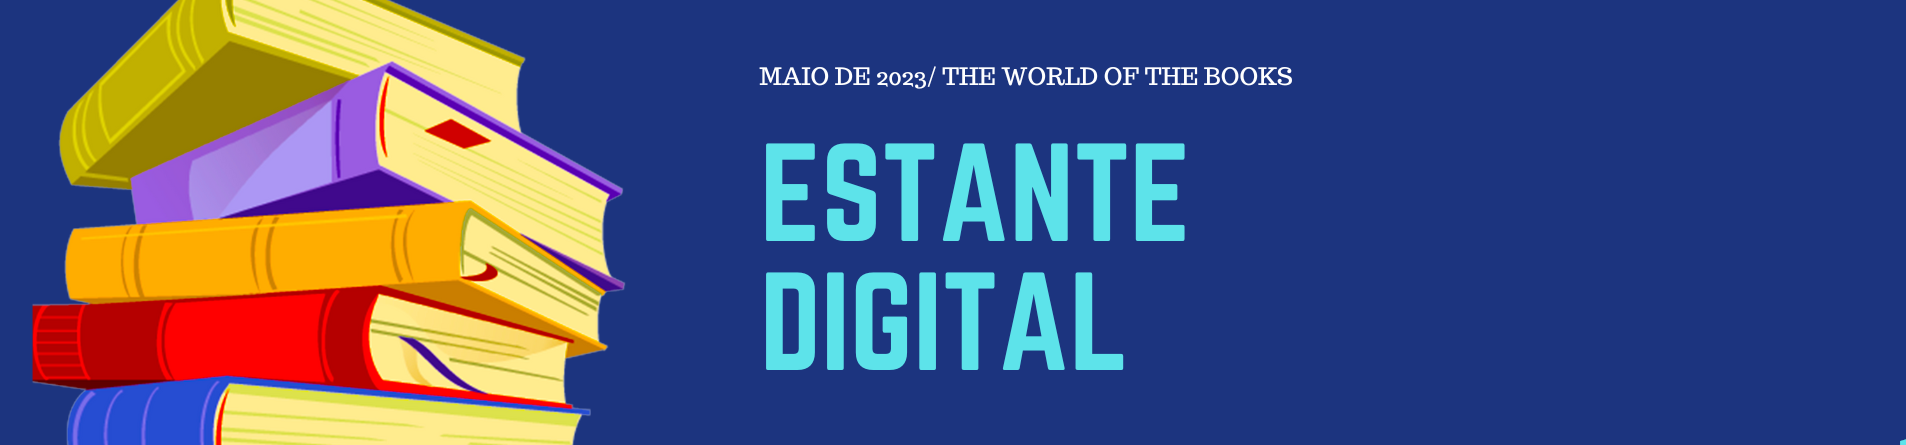
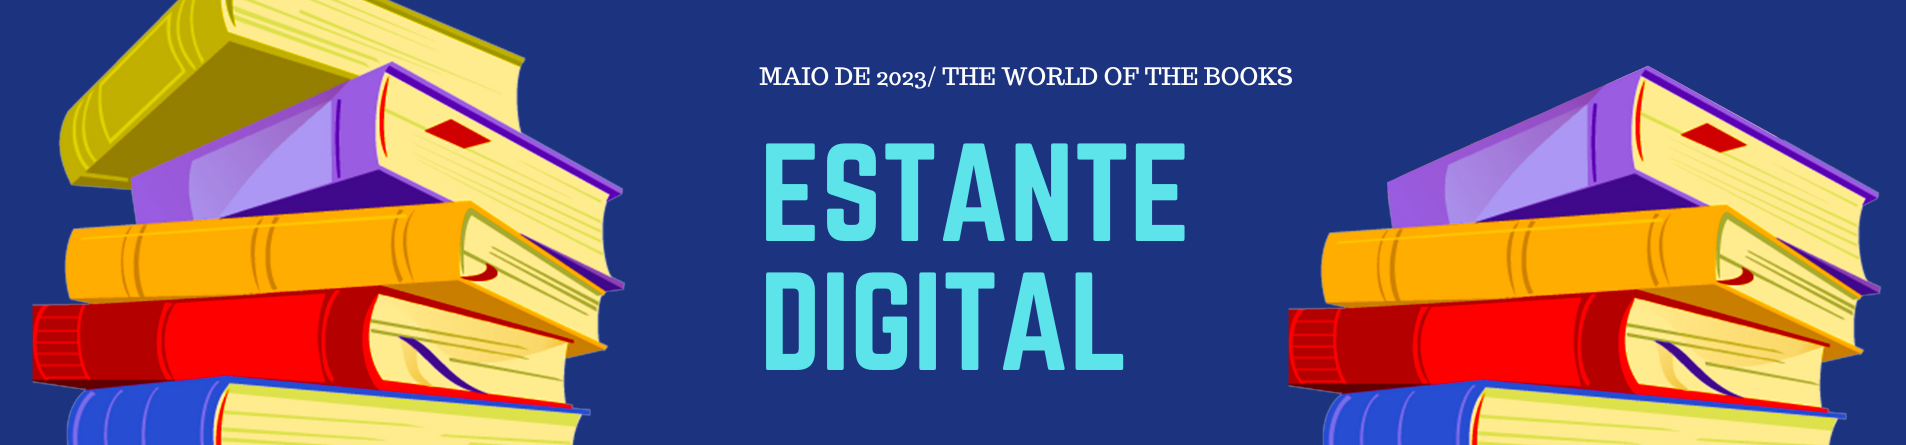
Pequenas Alterações
Edição no Banner da Página Inicial, além de algumas mudanças ortográficas

Changed region(s): [[0.6501, 0.1461, 0.9906, 1.0], [0.9906, 0.9933, 1.0, 1.0]]

diff --git a/site_biblioteca/index.html b/site_biblioteca/index.html
@@ -117,8 +117,8 @@
    <footer>
         <div id="footer_content">
             <div id="footer_contacts">
-                <h1>estante digital</h1>
-                <p>o mundo literario</p>
+                <h1>Estante Digital</h1>
+                <p>O mundo literario</p>
                 <div id="footer_social_media">
                     <a href="#" class="footer-link" id="istagram">
                         <i class="fa-brands fa-instagram"></i>
